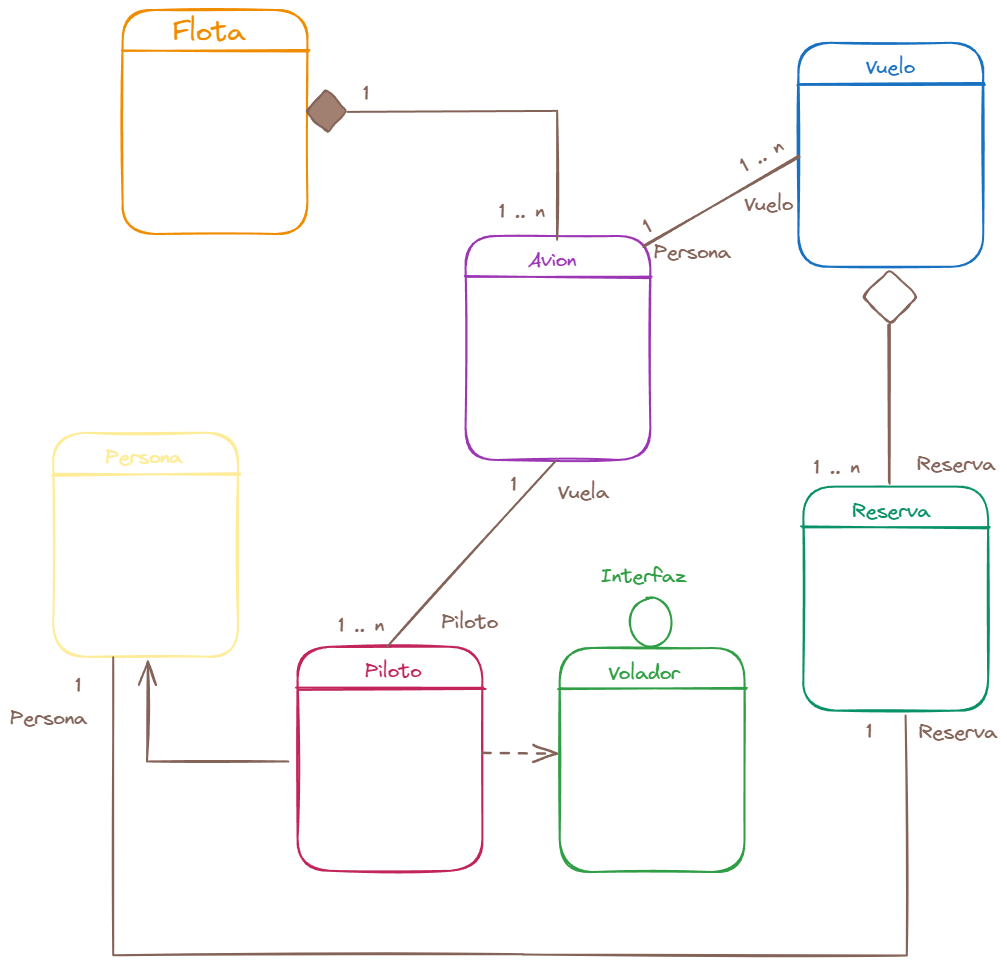
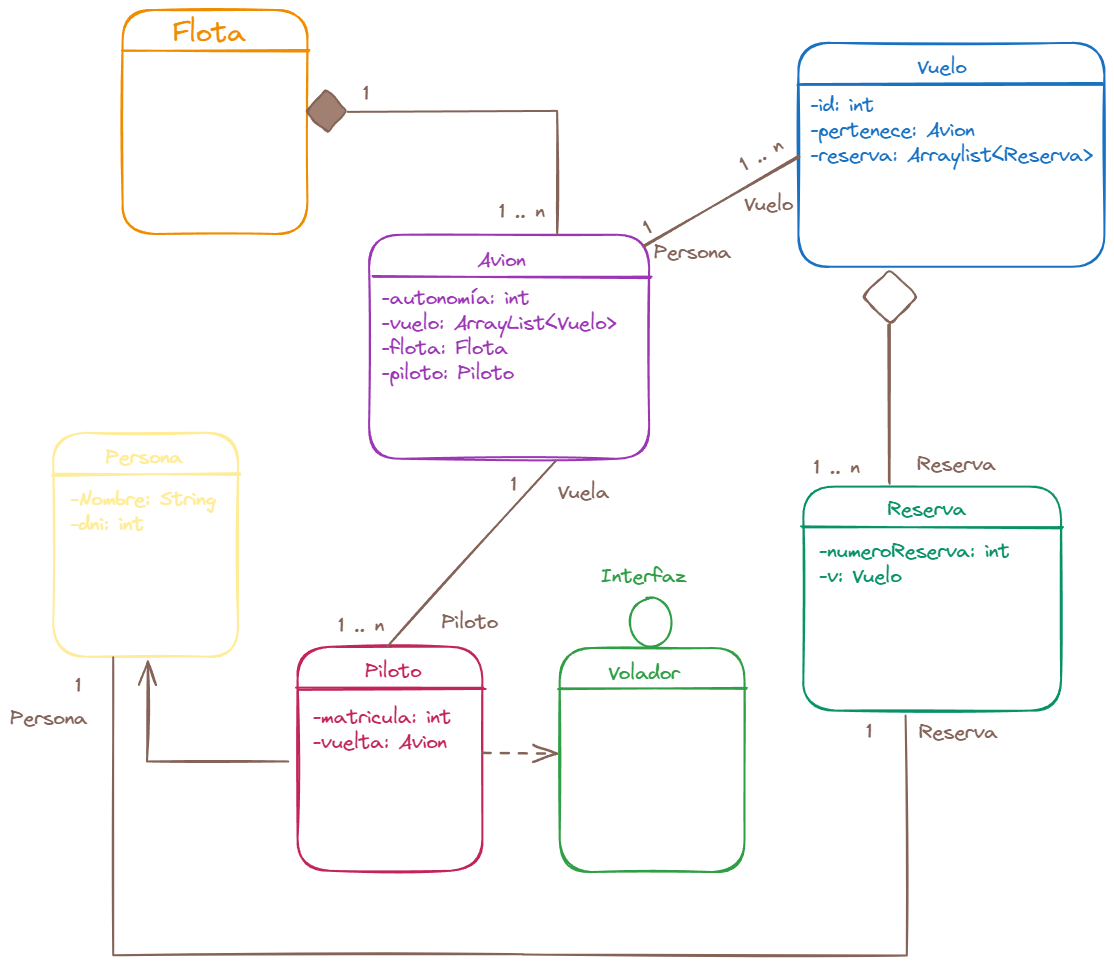
Modifico el esquema Modifico variables con errores

diff --git a/Piloto.java b/Piloto.java
@@ -10,12 +10,12 @@ package LabII_TP1;
  */
 public class Piloto extends Persona implements Volador{
     int matricula;
-    Avion vuela;
+    Avion vuelta;
 
     public Piloto(String Nombre, int dni,int matricula, Avion vuelta) {
         super(Nombre, dni);
         this.matricula = matricula;
-        this.vuela = vuelta;
+        this.vuelta = vuelta;
     }
     
     public void vuela(){

diff --git a/Reserva.java b/Reserva.java
@@ -9,11 +9,11 @@ package LabII_TP1;
  * @author betsa
  */
 public class Reserva {
-    public int nuemroReserva;
+    public int numeroReserva;
     Vuelo v;
 
-    public Reserva(int nuemroReserva, Vuelo v) {
-        this.nuemroReserva = nuemroReserva;
+    public Reserva(int numeroResehrva, Vuelo v) {
+        this.numeroReserva = numeroReserva;
         this.v = v;
     }
     

diff --git a/Flota.java b/Flota.java
@@ -11,7 +11,7 @@ import java.util.ArrayList;
  * @author betsa
  */
 public class Flota {
-    private ArrayList<Avion> aviones= new ArrayList<Avion> ();
+    private ArrayList<Avion> aviones= new ArrayList<Avion>();
     
     
     
